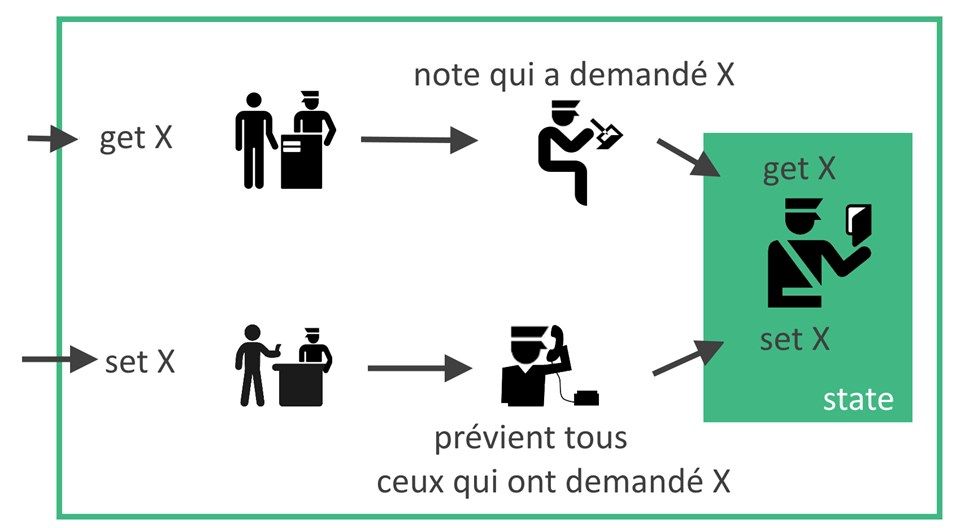
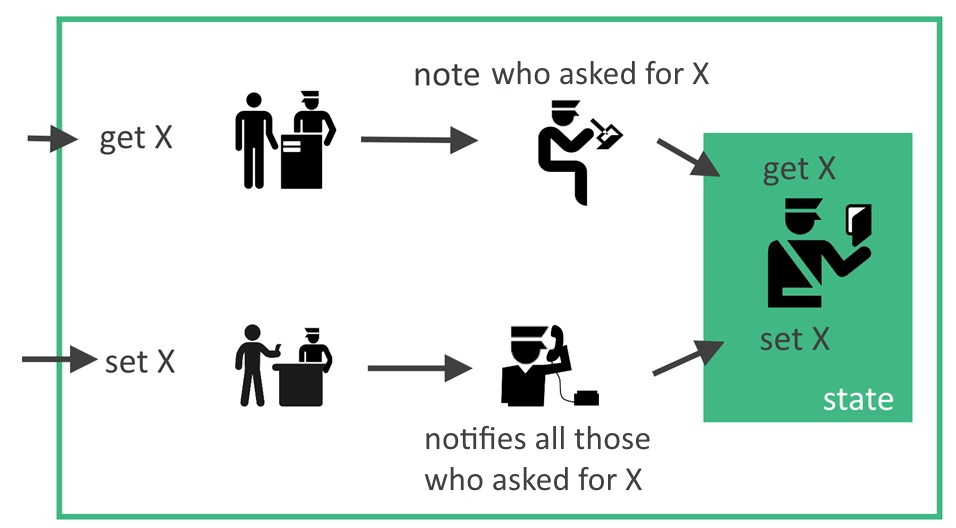
translate images

Changed region(s): [[0.3944, 0.8788, 0.7584, 0.9394], [0.5157, 0.1212, 0.7887, 0.1818], [0.4247, 0.7879, 0.6977, 0.8485]]

diff --git a/docs/fr/etat/README.md b/docs/fr/etat/README.md
@@ -4,7 +4,7 @@ Nous avons vu dans la section précédente comment communiquaient les composants
 
 ## Pourquoi une solution de gestion d'état ?
 
-![Problème multiple vues avec props partagés](../../assets/intro-state-management.png)
+![Problème multiple vues avec props partagés](../../assets/intro-state-management_fr.png)
 
 - parce que propager une variable en `props` d'un composant parent aux composants petits-enfants et arrière-petits-enfants devient vite fastidieux
 - pour pouvoir partager de l'information entre différents arbres de composants
